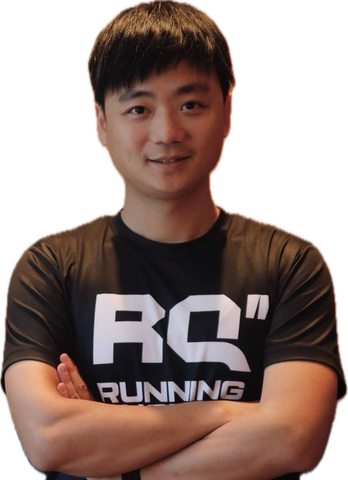
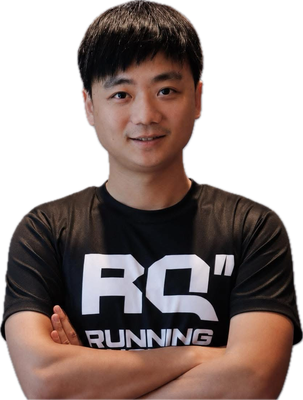
換成修圖後的照片，縮小照片比例
- 我換成修過的亮版照片；岳母換高解析度版本
- 兩人都裁到交叉手臂，頭部大小一致
- 照片顯示高度縮小：手機 172→150px、電腦 220→180px；對話框尖角重新對準

diff --git a/assets/style.css b/assets/style.css
@@ -110,8 +110,8 @@ h1 {
 .corner-me .avatar { order: -1; }
 .corner-id { padding-bottom: 14px; }
 .avatar { display: block; line-height: 0; }
-.avatar img { display: block; height: 172px; width: auto; max-width: 46vw; object-fit: contain; object-position: bottom; }
-@media (min-width: 720px) { .avatar img { height: 220px; max-width: none; } }
+.avatar img { display: block; height: 150px; width: auto; max-width: 46vw; object-fit: contain; object-position: bottom; }
+@media (min-width: 720px) { .avatar img { height: 180px; max-width: none; } }
 
 /* 台詞對話框：尖角指向照片裡的人 */
 .bubble {
@@ -123,11 +123,11 @@ h1 {
 .bubble::before {
   content: ""; position: absolute; top: -10px; width: 20px; height: 20px; transform: rotate(45deg); background: inherit;
 }
-.corner-mil .bubble::before { right: 64px; }
-.corner-me .bubble::before { left: 64px; }
+.corner-mil .bubble::before { right: 61px; }
+.corner-me .bubble::before { left: 47px; }
 @media (min-width: 720px) {
-  .corner-mil .bubble::before { right: 80px; }
-  .corner-me .bubble::before { left: 70px; }
+  .corner-mil .bubble::before { right: 75px; }
+  .corner-me .bubble::before { left: 58px; }
 }
 
 .now { margin-top: 18px; }

diff --git a/index.html b/index.html
@@ -48,7 +48,7 @@
           </div>
           <picture class="avatar">
             <source srcset="assets/mil.webp?v=__V__" type="image/webp">
-            <img src="assets/mil.png?v=__V__" alt="岳母" width="290" height="345" decoding="async">
+            <img src="assets/mil.png?v=__V__" alt="岳母" width="380" height="400" decoding="async">
           </picture>
         </div>
         <blockquote class="bubble">「那我來接手吧！」</blockquote>
@@ -68,7 +68,7 @@
           </div>
           <picture class="avatar">
             <source srcset="assets/me.webp?v=__V__" type="image/webp">
-            <img src="assets/me.png?v=__V__" alt="叉傑克（我）" width="348" height="480" decoding="async">
+            <img src="assets/me.png?v=__V__" alt="叉傑克（我）" width="303" height="400" decoding="async">
           </picture>
         </div>
         <blockquote class="bubble"><span class="nb">「就算是岳母，</span><span class="nb">我也不怕！（誤」</span></blockquote>
